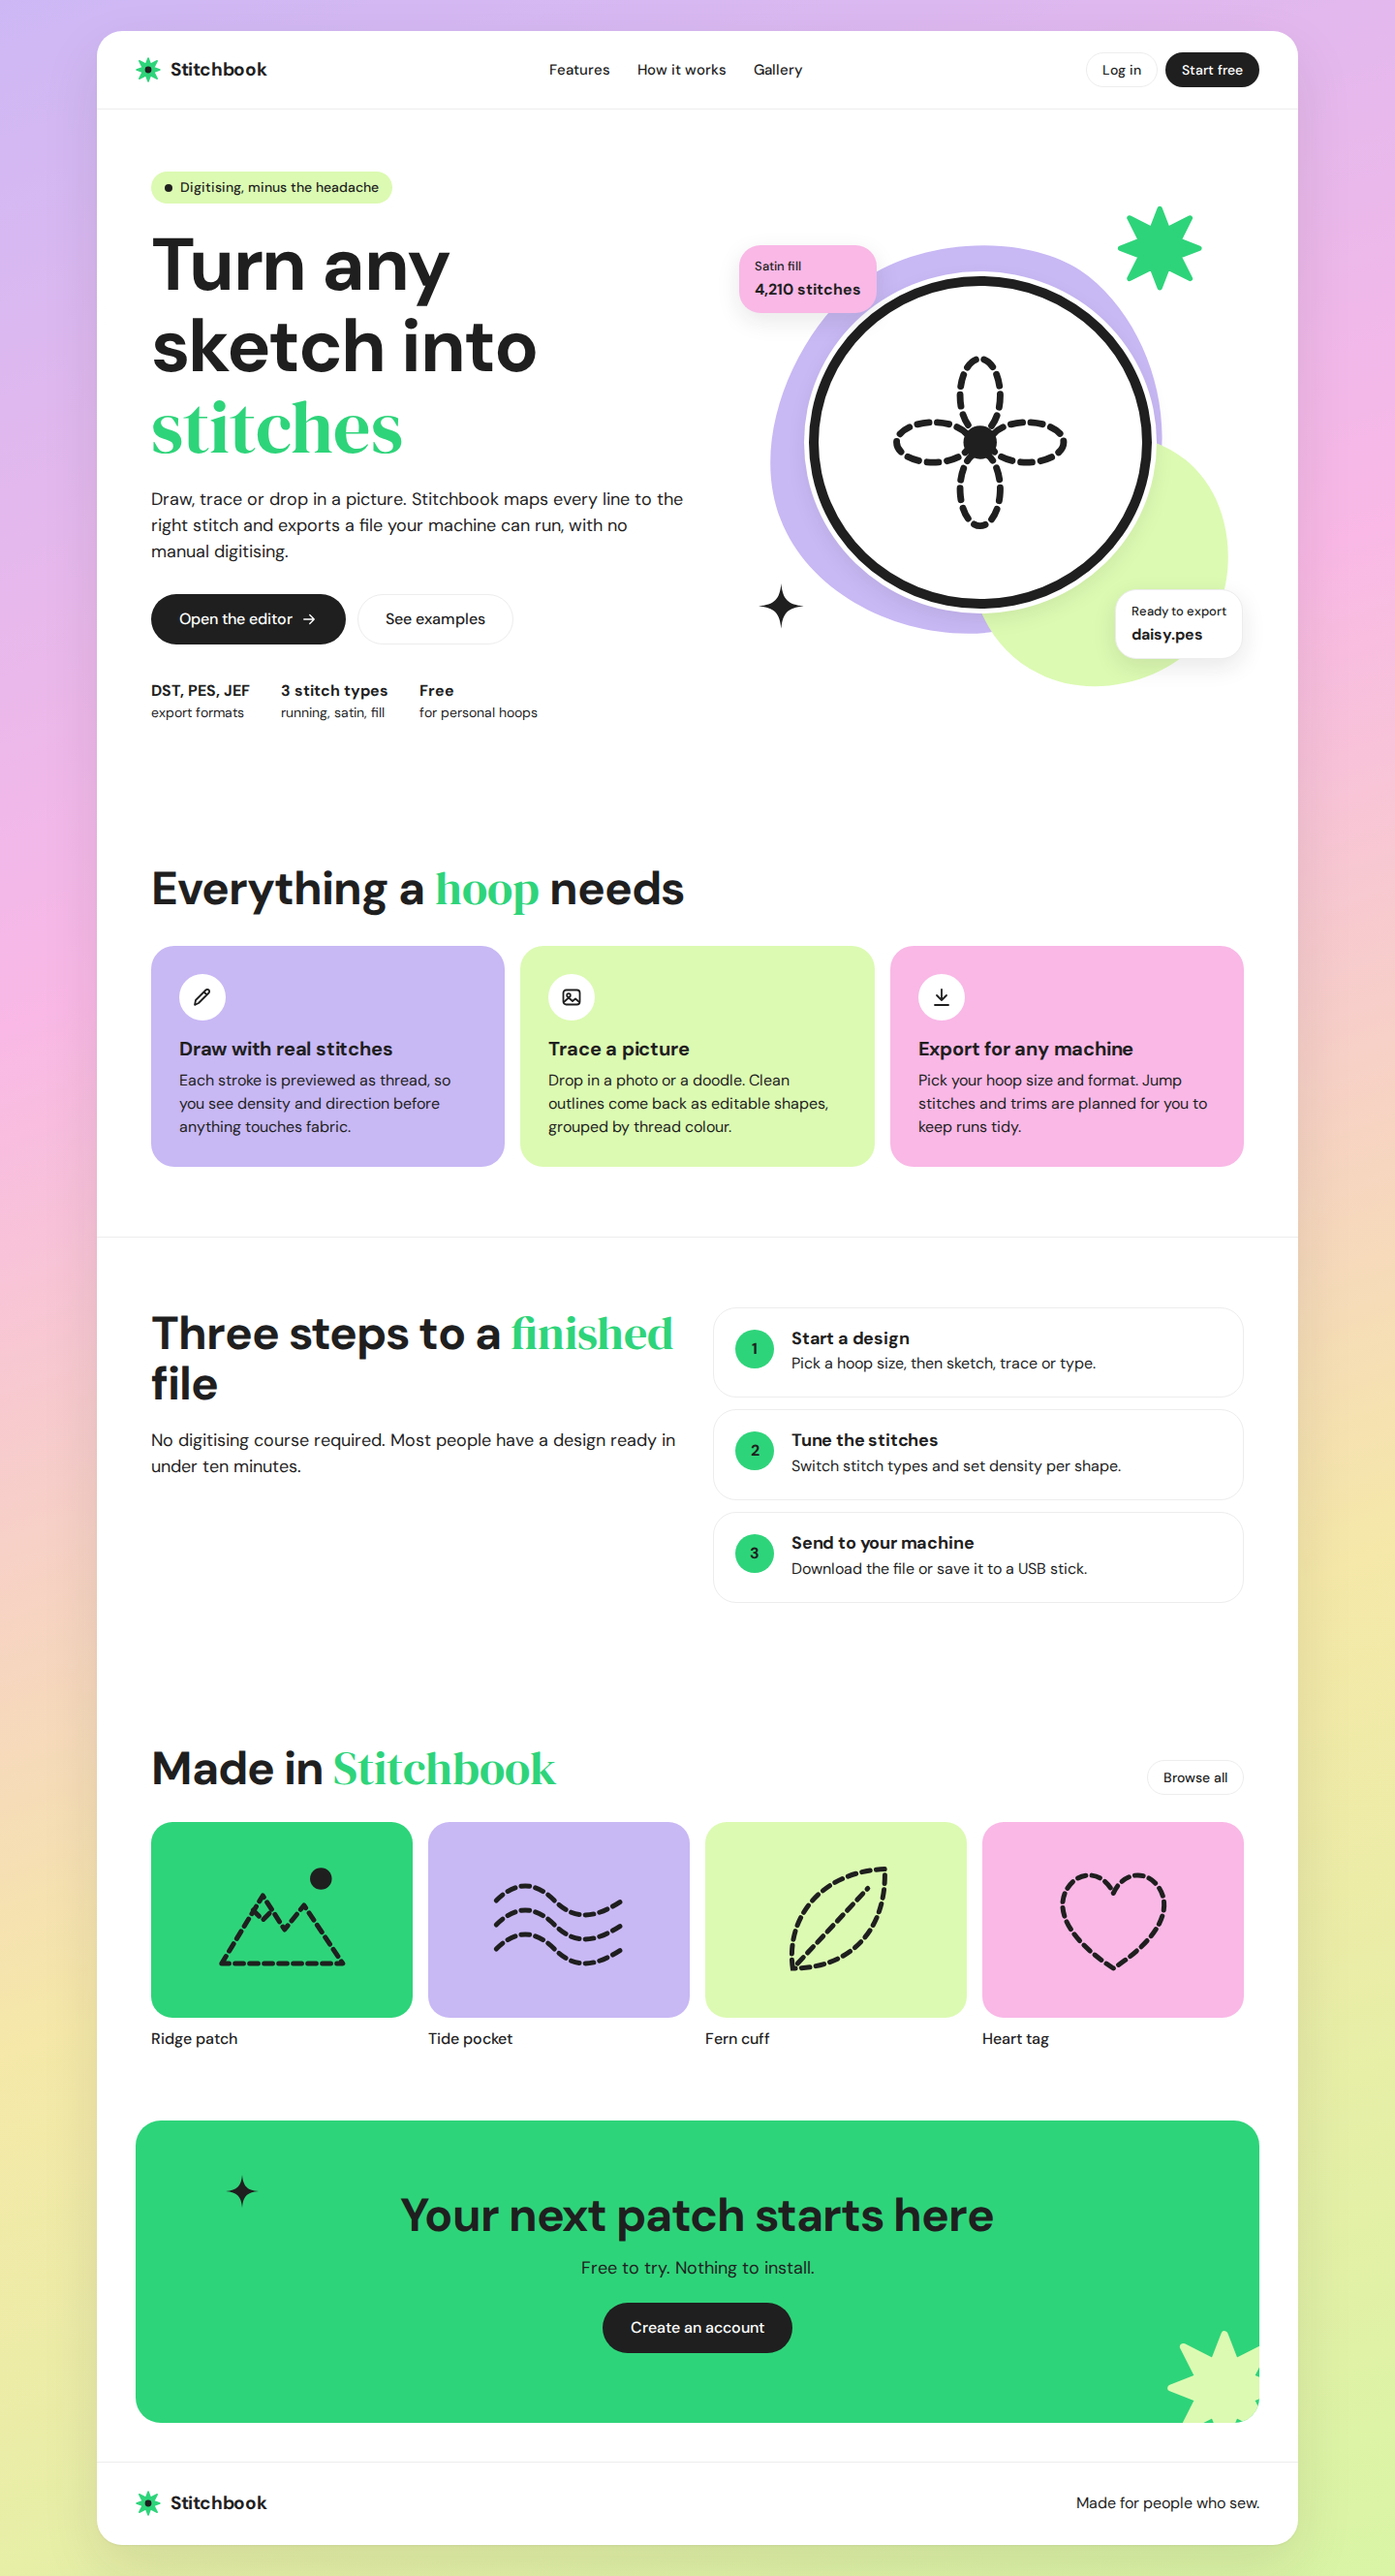
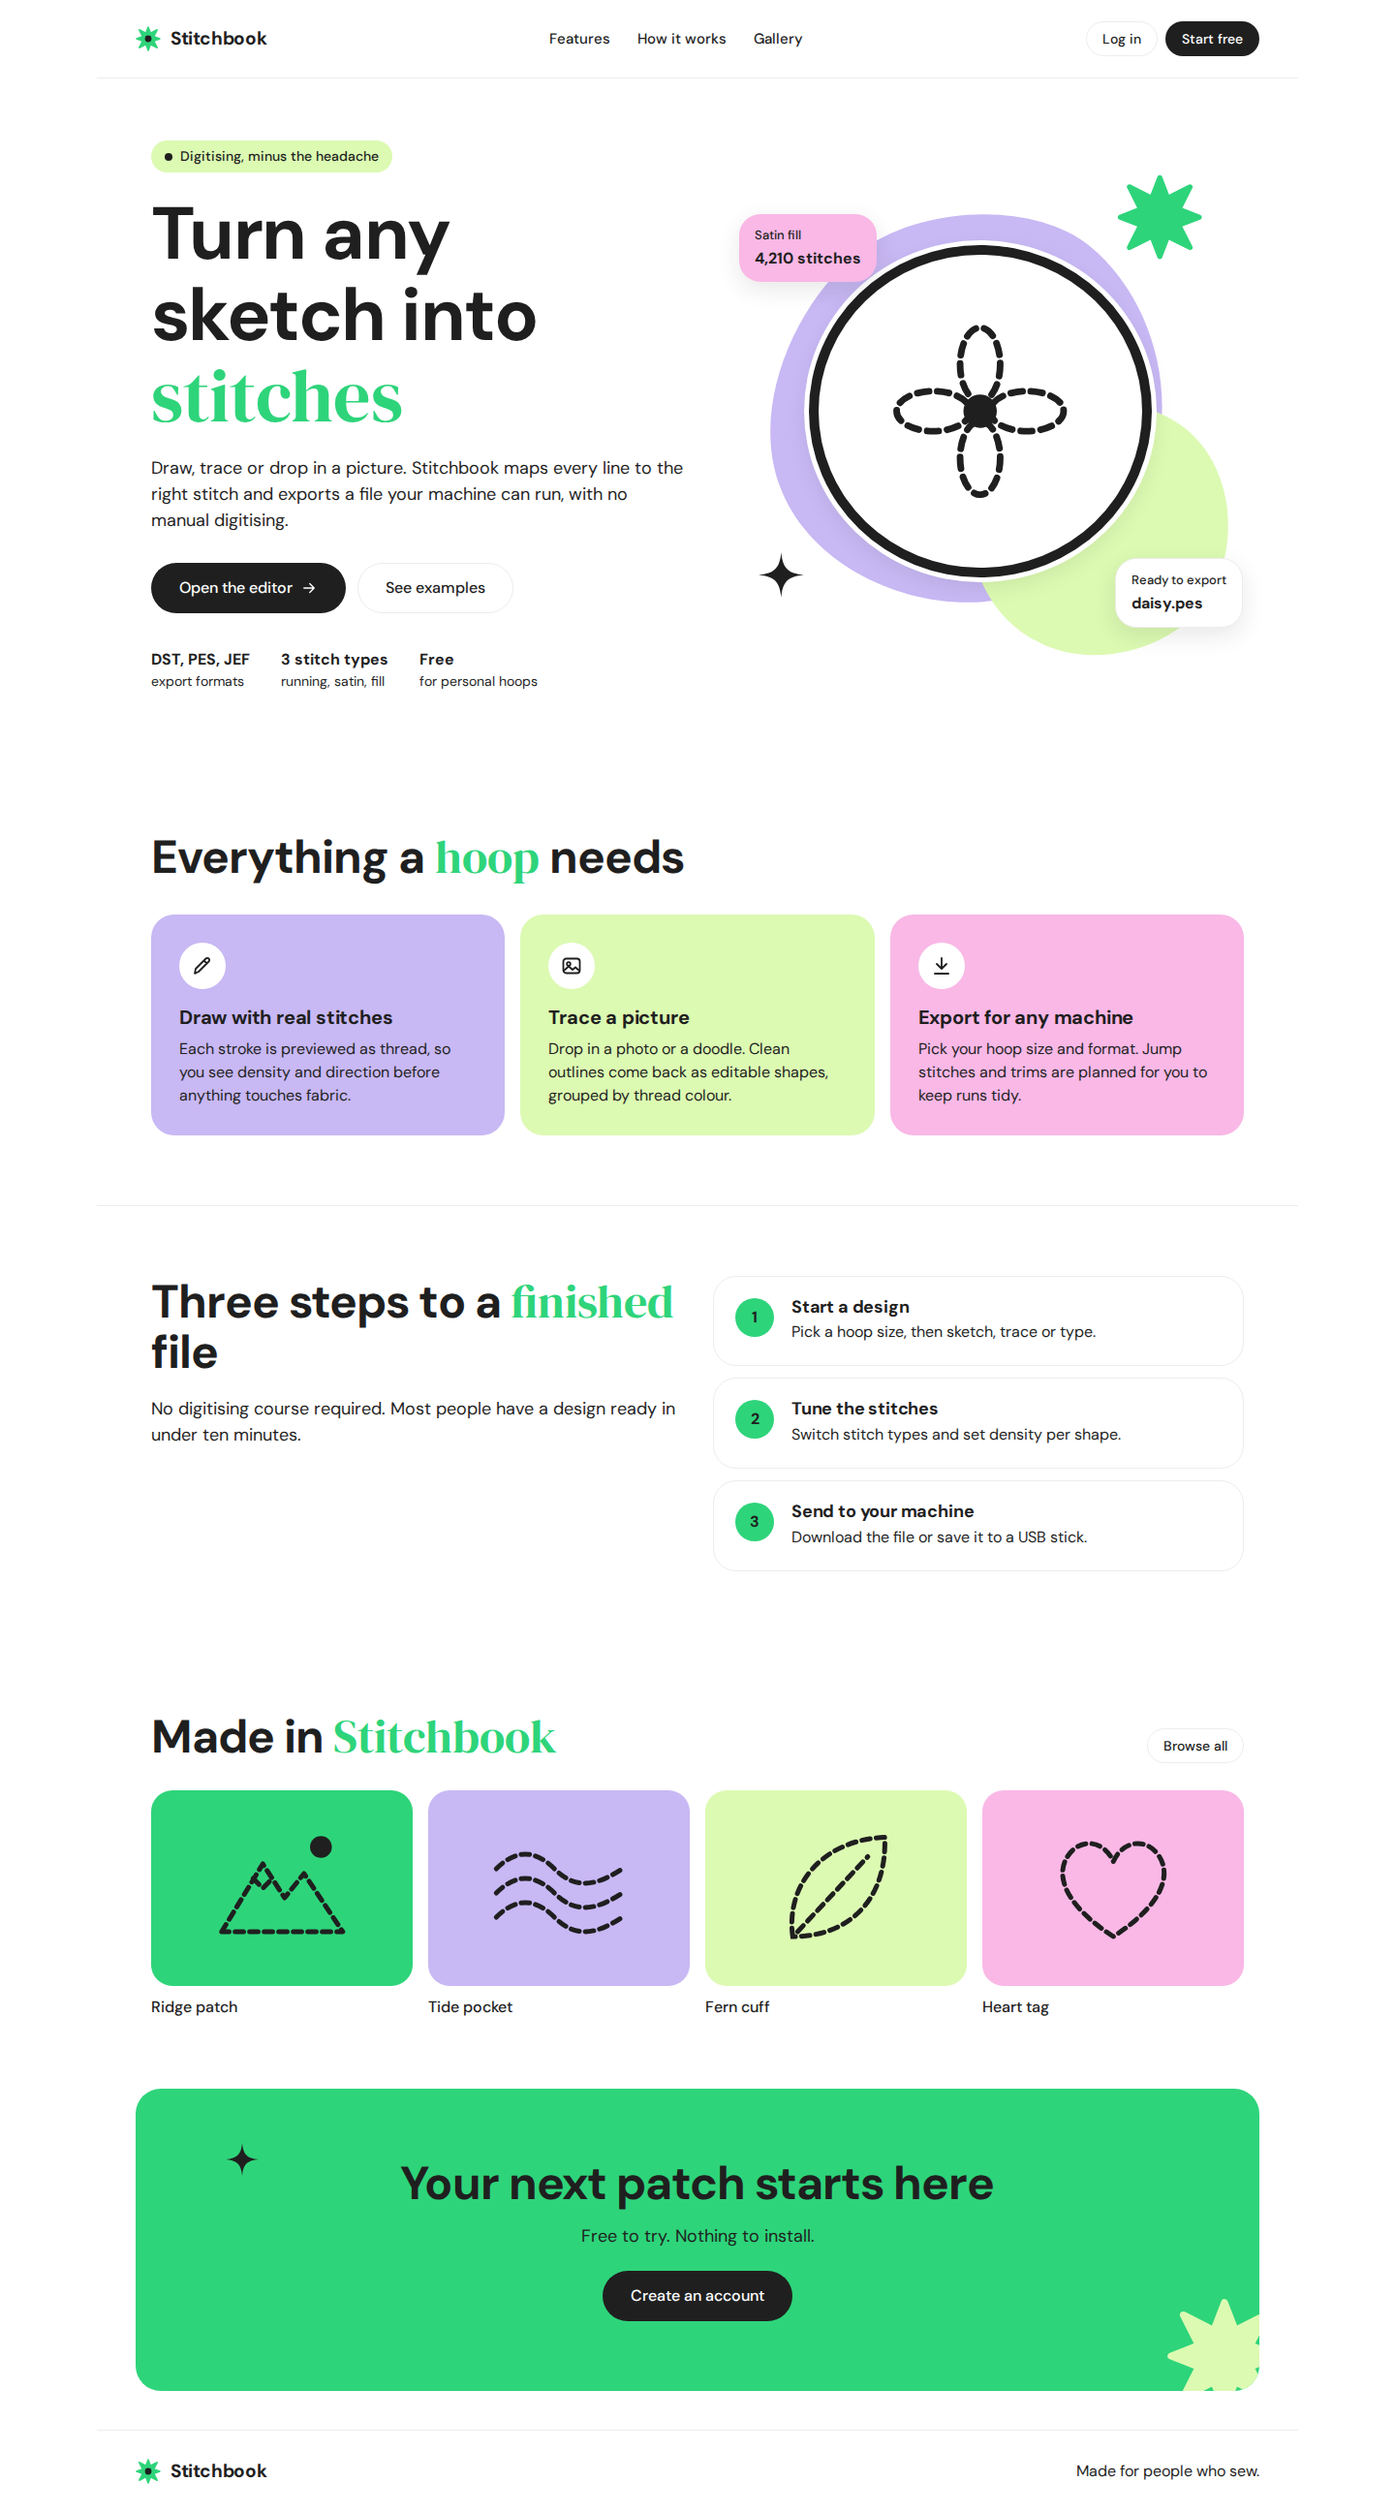
Web: plain white page instead of gradient background and floating sheet
- --page-bg is var(--white); gradient stop, sheet radius and sheet shadow tokens removed
- .sheet keeps the centred max width with no outer margin, radius or shadow
- Home layout height no longer subtracts the old sheet margins
- CLAUDE.md and web/README.md wording updated; screenshots refreshed

Claude-Session: https://claude.ai/code/session_01UyZuVeNqbWQ99HSc4PFdeP

diff --git a/web/css/tokens.css b/web/css/tokens.css
@@ -13,11 +13,8 @@
   --line: #EDEDED;
   --white: #FFFFFF;
 
-  /* Page background gradient stops (pink is shared with the palette) */
-  --bg-lavender: #CDB8F5;
-  --bg-butter: #F5E8A8;
-  --bg-lime: #D9F5A5;
-  --page-bg: linear-gradient(160deg, var(--bg-lavender), var(--pink), var(--bg-butter), var(--bg-lime));
+  /* Page background */
+  --page-bg: var(--white);
 
   /* Semantic roles */
   --text: var(--ink);
@@ -35,8 +32,6 @@
   --thumb-4: var(--pink);
 
   /* Elevation (derived from ink, no extra literals) */
-  --shadow-sheet: 0 1px 2px color-mix(in srgb, var(--ink) 5%, transparent),
-                  0 24px 60px color-mix(in srgb, var(--ink) 10%, transparent);
   --shadow-float: 0 8px 24px color-mix(in srgb, var(--ink) 10%, transparent);
 
   /* Type */
@@ -48,7 +43,6 @@
   --radius-card-sm: 22px;
   --radius-card: 24px;
   --radius-card-lg: 26px;
-  --radius-sheet: 26px;
   --radius-control: 12px;
 
   /* Layout */

diff --git a/web/css/base.css b/web/css/base.css
@@ -53,18 +53,12 @@ button { font: inherit; color: inherit; }
   letter-spacing: 0;
 }
 
-/* ---------- Sheet: the white page on the gradient ---------- */
+/* ---------- Page container: content centred at a fixed max width ---------- */
 .sheet {
-  width: min(var(--sheet-max), calc(100% - 2 * var(--gutter)));
-  margin: var(--gutter) auto;
+  width: min(var(--sheet-max), 100%);
+  margin: 0 auto;
   background: var(--surface);
-  border-radius: var(--radius-sheet);
-  box-shadow: var(--shadow-sheet);
   overflow: hidden;
-}
-
-@media (min-width: 900px) {
-  .sheet { margin: 32px auto; }
 }
 
 /* ---------- Brand ---------- */

diff --git a/web/css/home.css b/web/css/home.css
@@ -3,10 +3,10 @@
 .app {
   display: grid;
   grid-template-columns: minmax(0, 1fr);
-  min-height: calc(100vh - 2 * var(--gutter));
+  min-height: 100vh;
 }
 @media (min-width: 960px) {
-  .app { grid-template-columns: 248px minmax(0, 1fr); min-height: calc(100vh - 64px); }
+  .app { grid-template-columns: 248px minmax(0, 1fr); }
 }
 
 /* ---------- Sidebar ---------- */

diff --git a/CLAUDE.md b/CLAUDE.md
@@ -8,8 +8,8 @@ Rules: build only the current step. Do not invent stitch parameters: put every n
 
 ## Design system
 
-Light UI: a white sheet on a soft gradient page background.
-Colours: green #2ED47A, lavender #C8B8F4, lime #DCFAB2, pink #F9B8E6, ink #1F1F1F, muted #8A8A8A, line #EDEDED, white #FFFFFF. Page background: linear-gradient(160deg, #CDB8F5, #F9B8E6, #F5E8A8, #D9F5A5). Green is for fills only; for green text on white define a separate darker token and choose its value so the audit shows at least 3:1 for large text and 4.5:1 for small text.
+Light UI: a plain white page with the content centred at a fixed max width; no gradient background and no floating card around the page.
+Colours: green #2ED47A, lavender #C8B8F4, lime #DCFAB2, pink #F9B8E6, ink #1F1F1F, muted #8A8A8A, line #EDEDED, white #FFFFFF. Page background: white. Green is for fills only; for green text on white define a separate darker token and choose its value so the audit shows at least 3:1 for large text and 4.5:1 for small text.
 Text on green, lavender, lime and pink is always ink, never white. White text only on ink buttons.
 Fonts: DM Sans 400/500/700 for UI and headings; DM Serif Display 400 only for one accent word per heading. Both self-hosted.
 Shape: buttons are pills; cards use a 22-26px radius; thumbnails cycle green, lavender, lime, pink.

diff --git a/web/README.md b/web/README.md
@@ -4,7 +4,7 @@ Static front end for an embroidery design tool, built to the final design system
 
 | Screen  | File         | Notes |
 |---------|--------------|-------|
-| Landing | `index.html` | White sheet on the gradient page background; pastel fills allowed |
+| Landing | `index.html` | Plain white page, content centred at max width; pastel fills allowed |
 | Home    | `home.html`  | Designs dashboard; pastel quick-start cards and thumbnails |
 | Editor  | `editor.html`| Full-bleed white and neutral; ink and green are the only accents |
 
@@ -26,7 +26,7 @@ npm run check        # token lint + screenshots and UI audit
 
 `npm run check:ui` renders every screen at 1440×900 and 390×844 into `web/screenshots/`. It also writes `report.json` and flags these problems:
 
-- text below WCAG contrast against its real background (every stop, for the gradient)
+- text below WCAG contrast against its real background
 - white text on anything other than ink
 - clipped or off-screen text, and horizontal page scroll
 - fonts that did not load
